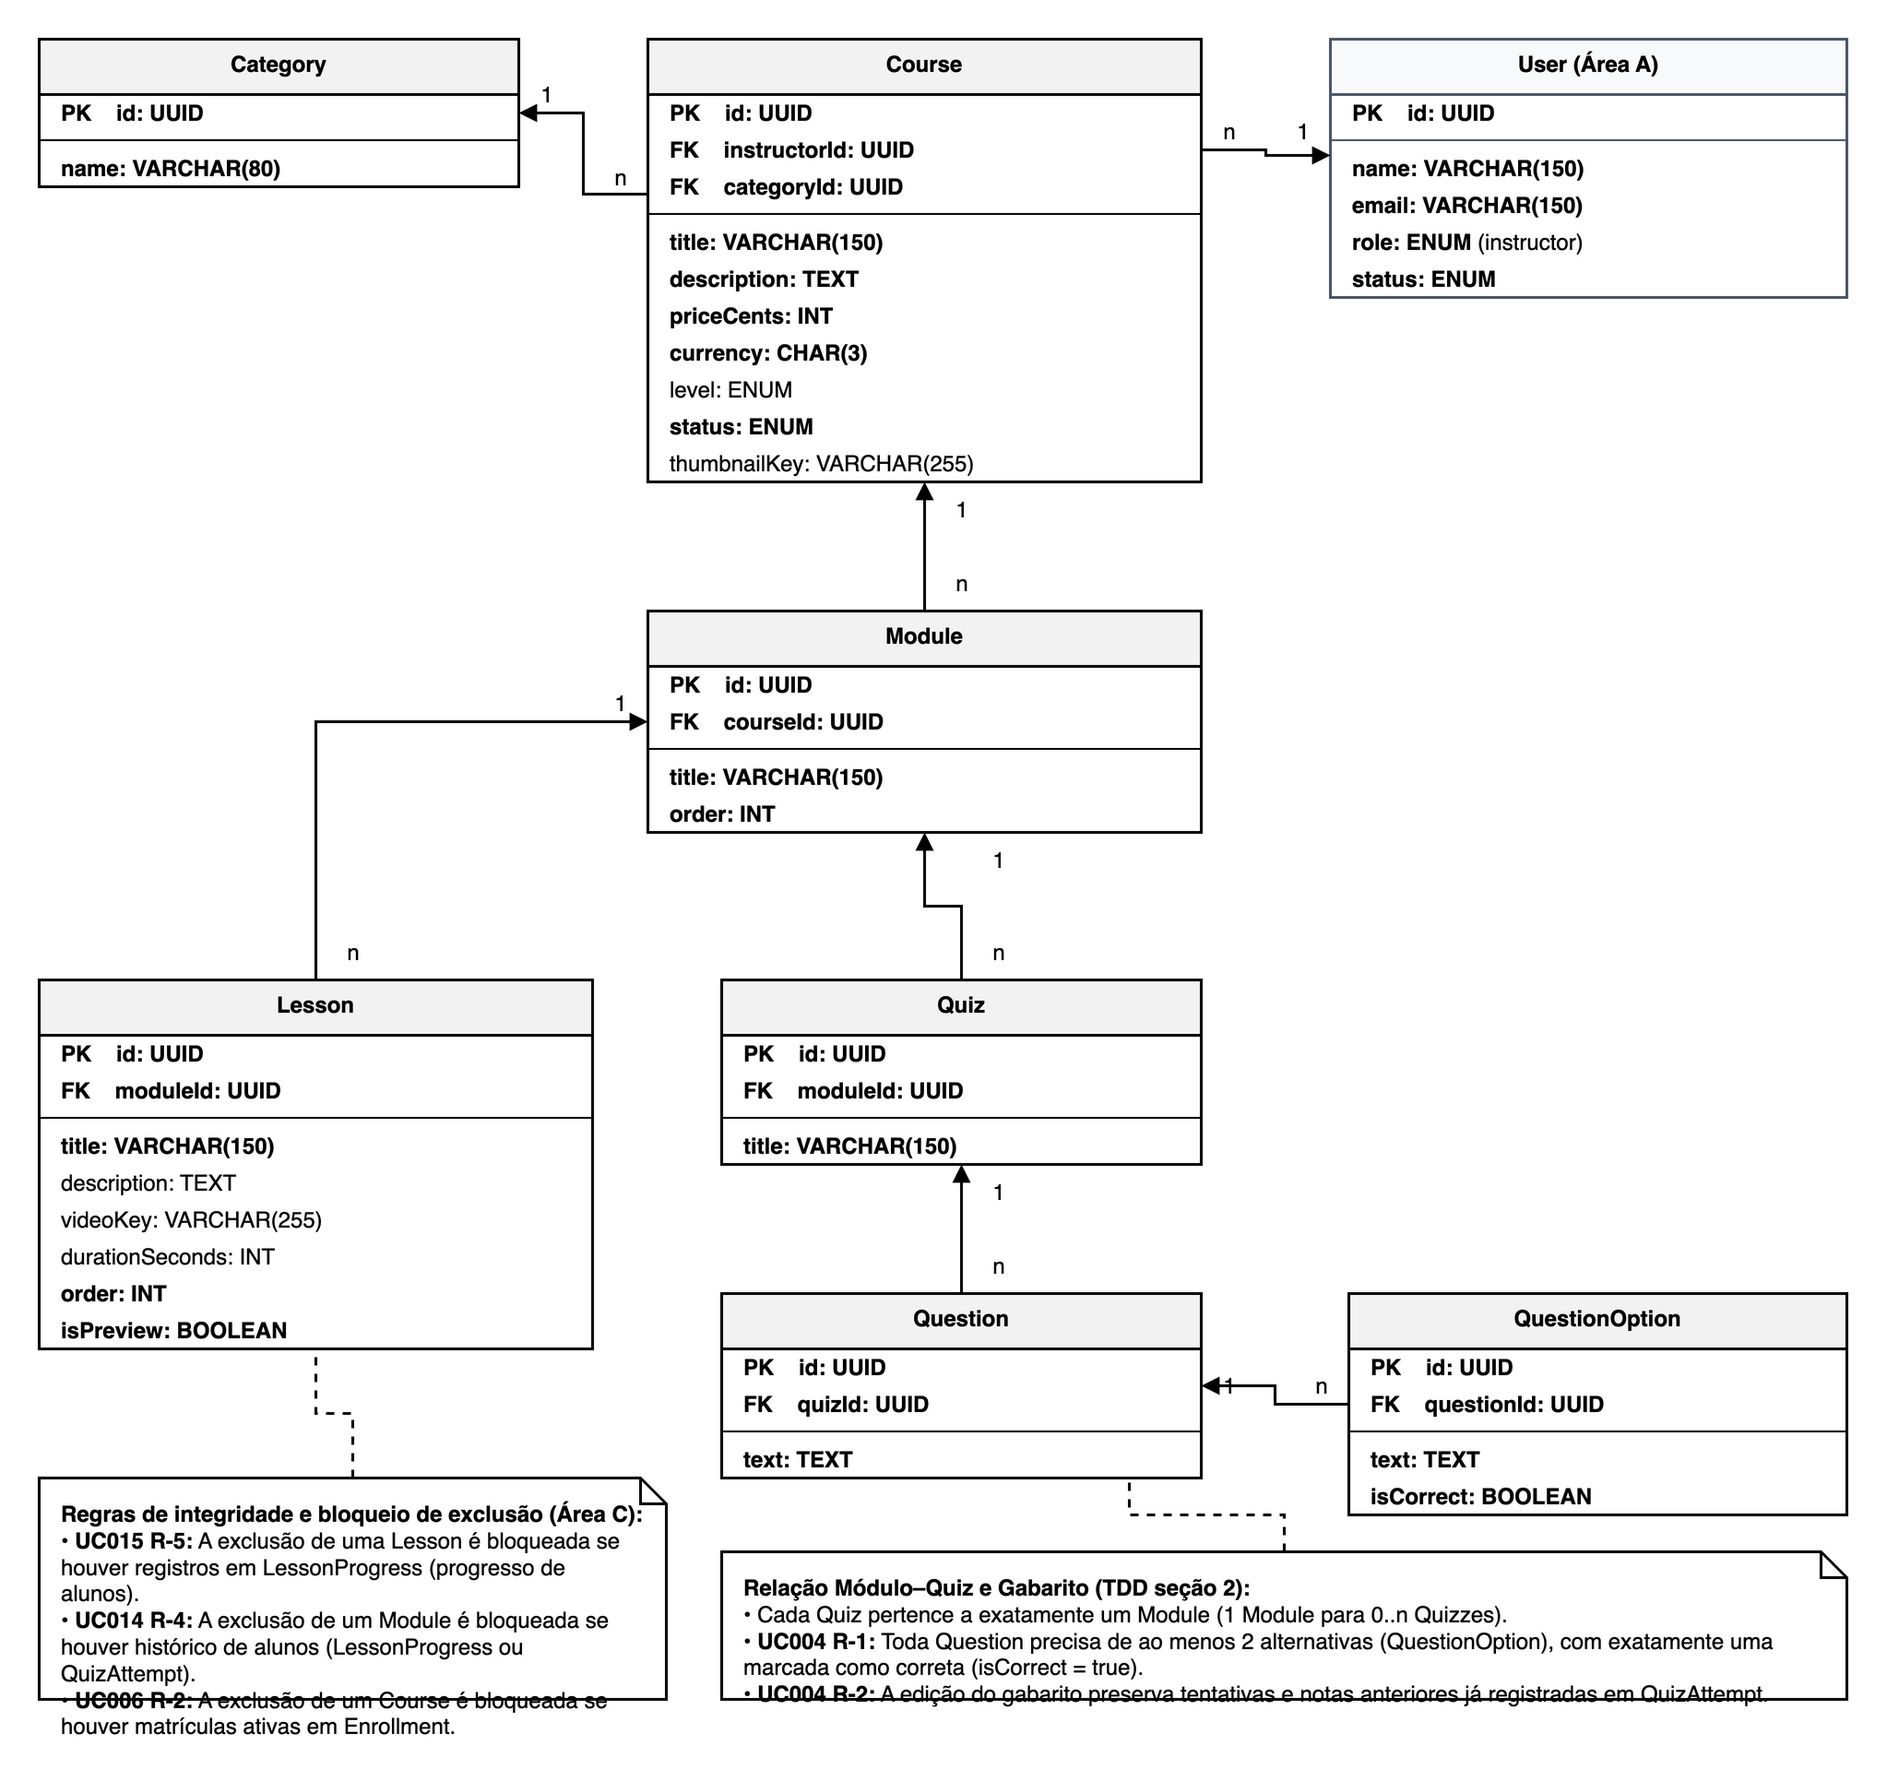
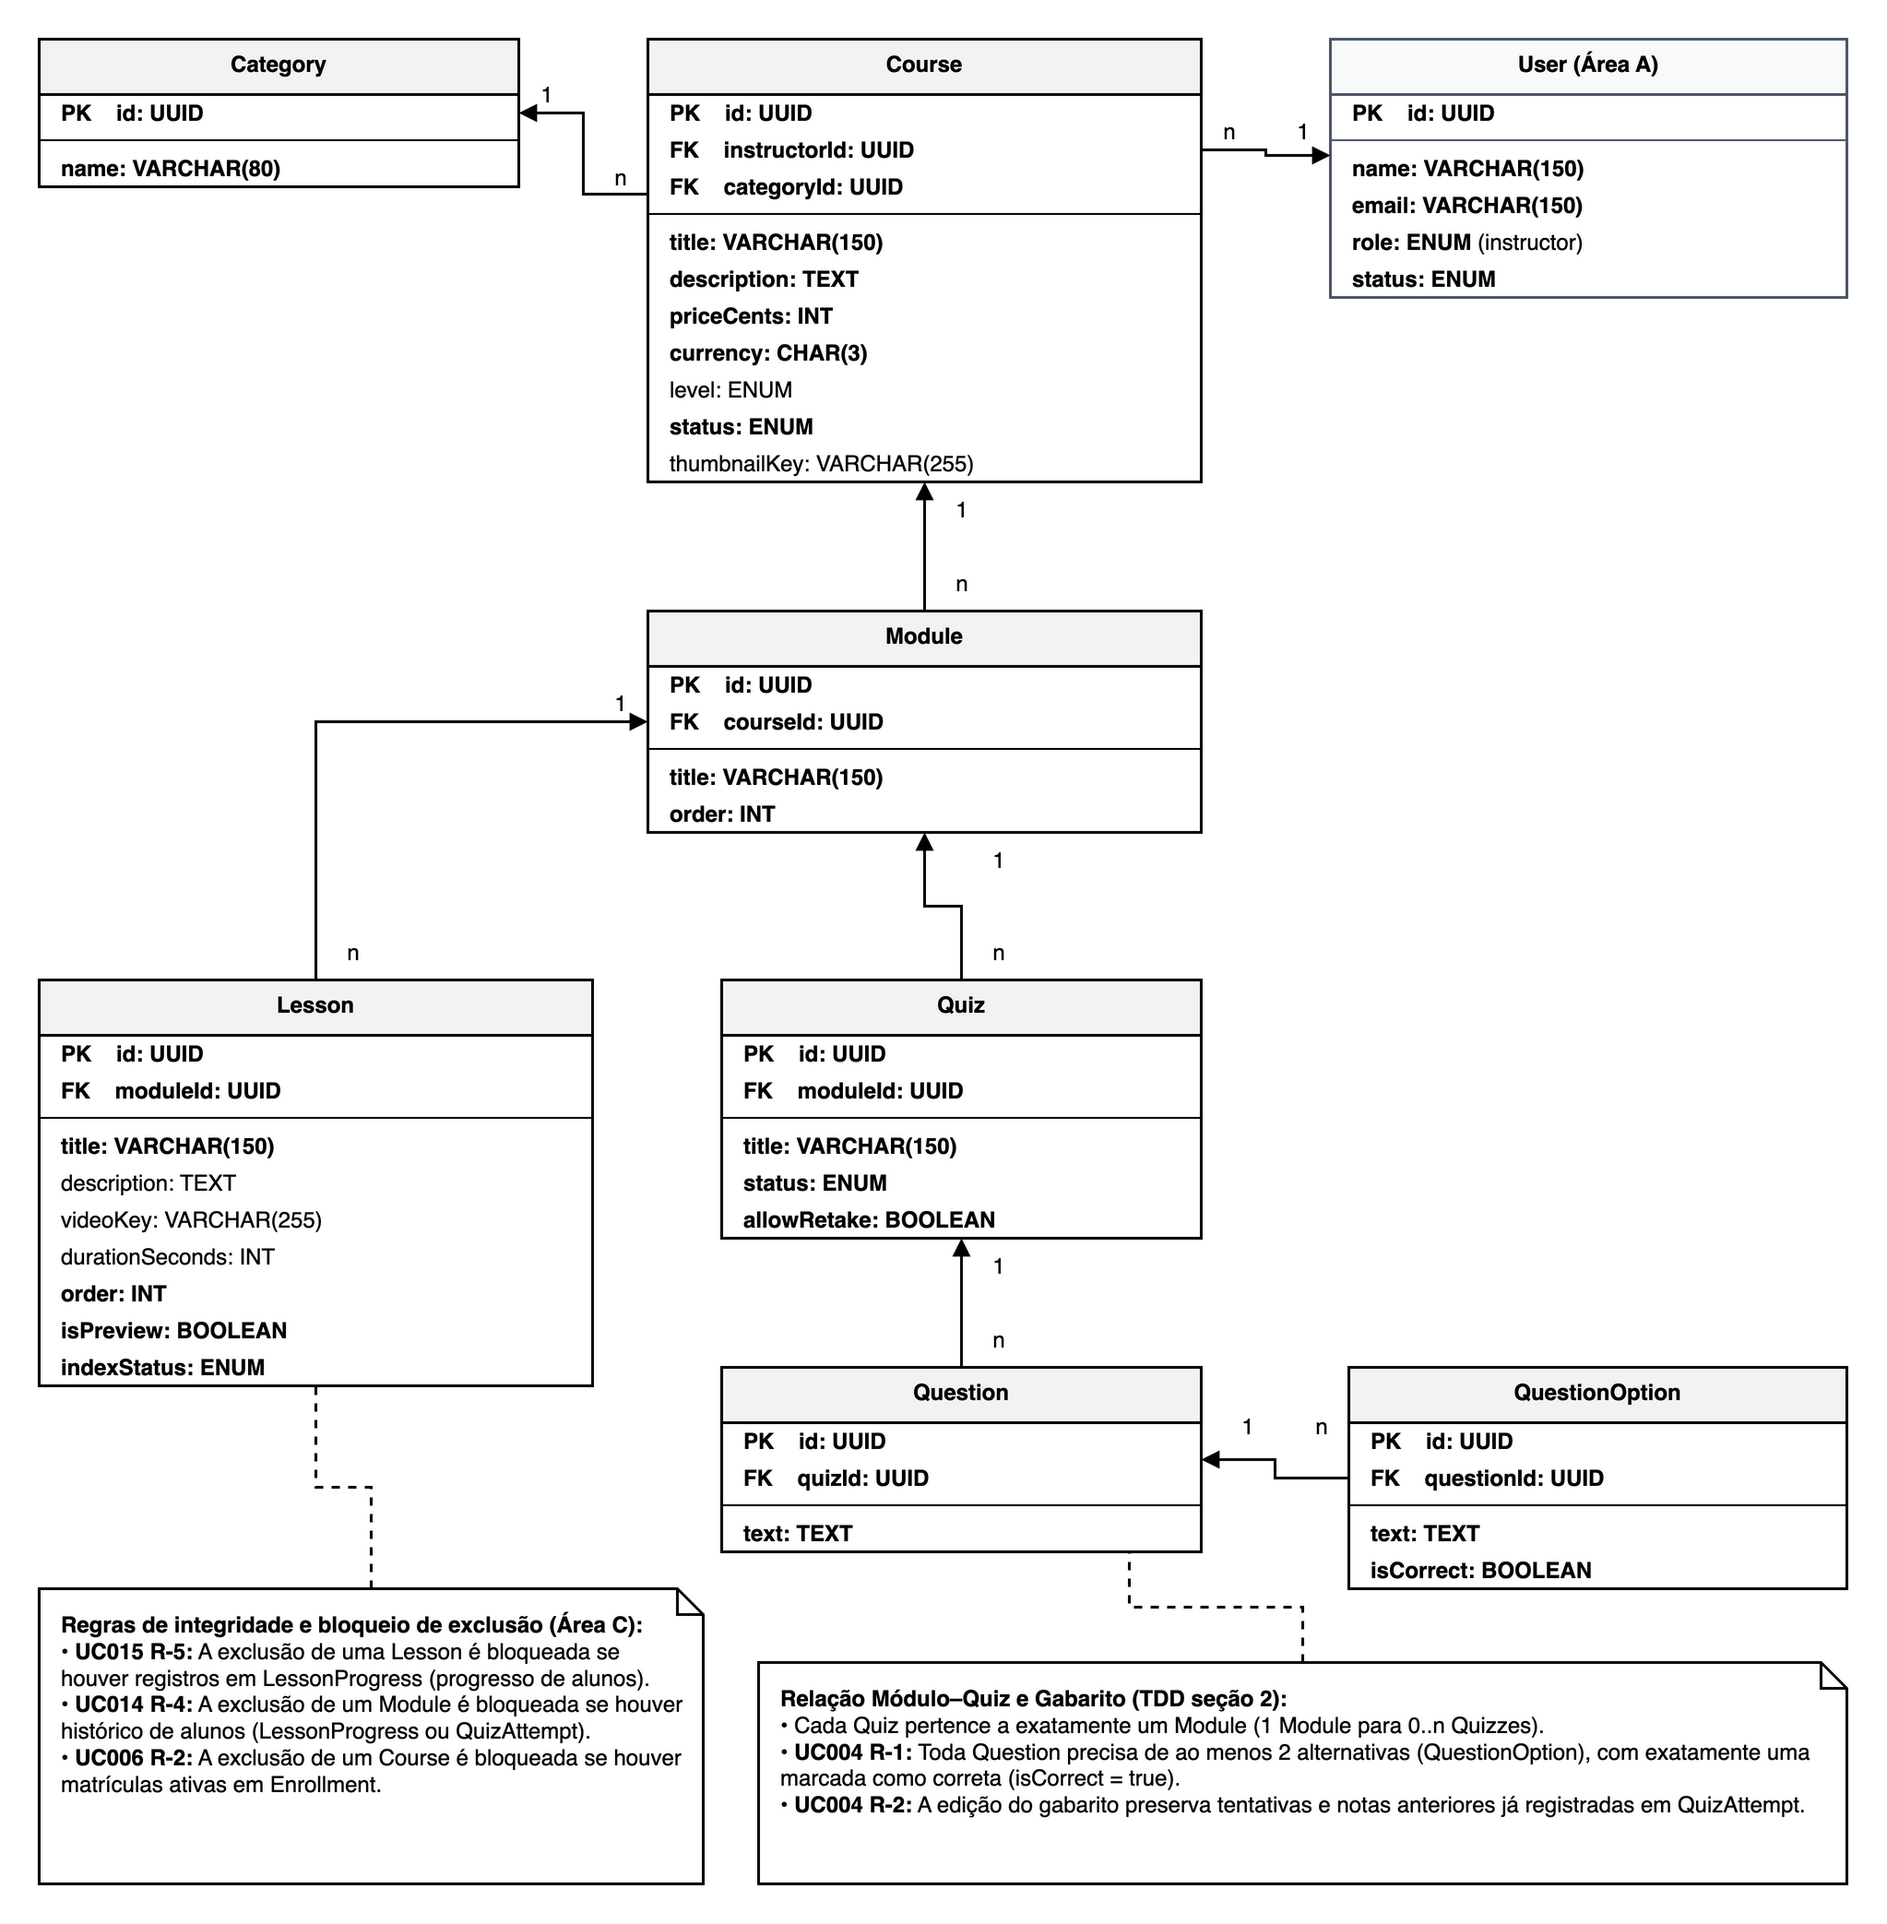
fix(modelo-de-dados): add Quiz.status, Quiz.allowRetake and Lesson.indexStatus to area B
Area B owns these fields, and areas C and D only reference them, so the
logical model and the data dictionary must define them. Enum values are
persisted in English, with a paragraph mapping them to the pt-BR labels,
and blocked deletions are documented as 409 CONFLICT. The note boxes in
the diagram no longer overlap QuestionOption and no longer clip text.

Refs #135

diff --git a/especificacao/12-modelo-de-dados/area-b.md b/especificacao/12-modelo-de-dados/area-b.md
@@ -11,11 +11,12 @@ Decisões do modelo:
 - **Relação Módulo–Quiz resolvida (TDD seção 2):** cada `Quiz` pertence a exatamente um `Module` (`Quiz.moduleId` obrigatório), e cada `Module` pode conter zero ou mais quizzes (`0..n`). Isso resolve a hierarquia pedagógica do curso, permitindo avaliações modulares pontuais ou finais de módulo.
 - **Normalização até a 3ª Forma Normal (3FN):** todas as tabelas da Área B encontram-se rigorosamente na 3FN. As chaves primárias são UUIDs únicos, todos os atributos não-chave dependem exclusivamente da chave primária inteira (sem dependências parciais) e não há dependências transitivas entre atributos não-chave.
 - **Bloqueio de exclusão e integridade com a Área C:**
-  - A exclusão de um `Course` é bloqueada se houver alunos com matrículas ativas em `Enrollment` (UC006 R-2 e E2), permitindo apenas a alteração de status para rascunho / despublicado.
-  - A exclusão de um `Module` é bloqueada se houver histórico de alunos registrado em `LessonProgress` (para qualquer aula do módulo) ou em `QuizAttempt` (para qualquer quiz do módulo) (UC014 R-4 e E4). Caso não haja histórico, a exclusão em cascata remove as aulas e os quizzes do módulo.
-  - A exclusão de uma `Lesson` é bloqueada se houver qualquer registro em `LessonProgress` (UC015 R-5 e E4). Caso contrário, a exclusão remove o registro da aula e aciona a exclusão do vídeo no Cloudflare R2.
-- **Gestão de vídeo e armazenamento desacoplado (RNF002, RNF004, RNF018):** a tabela `Lesson` armazena apenas a chave de referência do vídeo (`videoKey: VARCHAR(255)`) no Cloudflare R2 e a duração em segundos (`durationSeconds: INT`), sem trafegar binários pela API principal. O upload é feito diretamente ao storage via URLs pré-assinadas com validade estrita de 15 minutos (RNF002).
-- **Estrutura de Quiz e Gabarito (UC004 R-1, R-2):** cada `Question` possui enunciado próprio e associa-se a pelo menos duas alternativas em `QuestionOption`, das quais exatamente uma possui `isCorrect = true` (R-1). A edição de enunciados ou do gabarito preserva o histórico de respostas e as notas já atribuídas em `QuizAttempt` (R-2).
+  - A exclusão de um `Course` é bloqueada se houver alunos com matrículas ativas em `Enrollment` (UC006 R-2 e E2, retornando HTTP `409 Conflict`), permitindo apenas a alteração de status para despublicado / rascunho (`draft`).
+  - A exclusão de um `Module` é bloqueada se houver histórico de alunos registrado em `LessonProgress` (para qualquer aula do módulo) ou em `QuizAttempt` (para qualquer quiz do módulo) (UC014 R-4 e E4, retornando HTTP `409 Conflict`). Caso não haja histórico, a exclusão em cascata remove as aulas e os quizzes do módulo.
+  - A exclusão de uma `Lesson` é bloqueada se houver qualquer registro em `LessonProgress` (UC015 R-5 e E4, retornando HTTP `409 Conflict`). Caso contrário, a exclusão remove o registro da aula e aciona a exclusão do vídeo no Cloudflare R2.
+- **Gestão de vídeo e indexação vetorial (UC015, RNF002, RNF004, RNF018):** a tabela `Lesson` armazena apenas a chave de referência do vídeo (`videoKey: VARCHAR(255)`) no Cloudflare R2, a duração em segundos (`durationSeconds: INT`) e o status da indexação vetorial e transcrição (`indexStatus: VARCHAR(20)`), sem trafegar binários pela API principal. O upload é feito diretamente ao storage via URLs pré-assinadas com validade estrita de 15 minutos (RNF002). O processamento assíncrono é acionado apenas quando há envio de novo arquivo de vídeo (UC015 R-4).
+- **Estrutura de Quiz, Gabarito e Retentativas (UC004 R-1, R-2):** cada `Quiz` possui status de publicação (`status: VARCHAR(20)`, com valores `draft` ou `published`) e controle de novas tentativas (`allowRetake: BOOLEAN`, padrão `true`). Cada `Question` possui enunciado próprio e associa-se a pelo menos duas alternativas em `QuestionOption`, das quais exatamente uma possui `isCorrect = true` (R-1). A edição de enunciados ou do gabarito preserva o histórico de respostas e as notas já atribuídas em `QuizAttempt` (R-2).
+- **Mapeamento de Enums e Internacionalização:** conforme a arquitetura do sistema, todos os valores enumerados são persistidos no banco de dados em língua inglesa (ex.: `status` em `Course` e `Quiz` como `draft` e `published`; `level` em `Course` como `beginner`, `intermediate` e `advanced`; `indexStatus` em `Lesson` como `pending`, `indexed` e `failed`). As camadas de apresentação (frontend) e de contrato da API realizam o mapeamento bidirecional desses valores para os respectivos rótulos em português exibidos ao usuário (ex.: `draft` → 'Rascunho', `published` → 'Publicado'; `pending` → 'Pendente', `indexed` → 'Indexado', `failed` → 'Falhou'; `beginner` → 'Iniciante', `intermediate` → 'Intermediário', `advanced` → 'Avançado').
 - **Valores monetários e localização:** `Course.priceCents` armazena o preço em centavos como número inteiro para evitar imprecisões de arredondamento de ponto flutuante, com `Course.currency` fixada no código ISO 4217 (`BRL` por padrão).
 
 | ATRIBUTO | CLASSE | DOMÍNIO | TAMANHO | DESCRIÇÃO |
@@ -31,8 +32,8 @@ Decisões do modelo:
 | description | Simples | Texto longo | TEXT | Descrição detalhada do conteúdo programático (obrigatório). |
 | priceCents | Simples | Numérico | - | Preço do curso expresso em centavos (inteiro, obrigatório). |
 | currency | Simples | Texto | 3 | Código ISO 4217 da moeda (padrão 'BRL', obrigatório). |
-| level | Simples | Texto | - | Nível de dificuldade: iniciante, intermediario, avancado (opcional). |
-| status | Simples | Texto | - | Estado de publicação: 'rascunho' ou 'publicado' (obrigatório, padrão 'rascunho'). |
+| level | Simples | Texto | 20 | Nível de dificuldade: 'beginner', 'intermediate', 'advanced' (opcional). |
+| status | Simples | Texto | 20 | Estado de publicação: 'draft' ou 'published' (obrigatório, padrão 'draft'). |
 | thumbnailKey | Simples | Texto | 255 | Chave da imagem de capa no storage Cloudflare R2 (opcional). |
 | **Tabela: Module** | | | | |
 | id | Determinante | UUID | - | Identificador único do módulo. |
@@ -48,10 +49,13 @@ Decisões do modelo:
 | durationSeconds | Simples | Numérico | - | Duração total do vídeo em segundos (opcional). |
 | order | Simples | Numérico | - | Posição sequencial da aula dentro do módulo (obrigatório). |
 | isPreview | Simples | Booleano | - | Flag indicando se a aula pode ser assistida gratuitamente como degustação (padrão false). |
+| indexStatus | Simples | Texto | 20 | Status do processamento de transcrição e indexação vetorial: 'pending', 'indexed', 'failed' (obrigatório, padrão 'pending'). |
 | **Tabela: Quiz** | | | | |
 | id | Determinante | UUID | - | Identificador único do quiz. |
 | moduleId | Simples | UUID | - | FK para `Module.id`, vinculando o quiz ao módulo correspondente. |
 | title | Simples | Texto | 150 | Título do quiz (obrigatório). |
+| status | Simples | Texto | 20 | Estado de publicação do quiz: 'draft' ou 'published' (obrigatório, padrão 'draft'). |
+| allowRetake | Simples | Booleano | - | Flag indicando se novas tentativas de resolução são permitidas após submissão (padrão true, obrigatório). |
 | **Tabela: Question** | | | | |
 | id | Determinante | UUID | - | Identificador único da questão. |
 | quizId | Simples | UUID | - | FK para `Quiz.id`, quiz proprietário da questão. |
